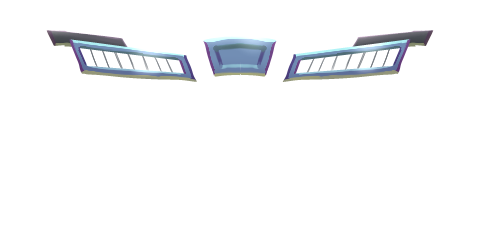
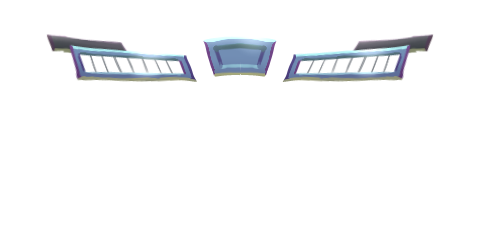
Health bar

Changed region(s): [[0.6, 0.112, 0.87, 0.336], [0.09, 0.112, 0.36, 0.336]]

diff --git a/src/finalGame/champion/Champion.java b/src/finalGame/champion/Champion.java
@@ -156,14 +156,14 @@ public class Champion extends GameObject{
 		
 		//PlayerHP
 		g2.setColor(Color.black);
-		g2.drawRect(110, 70, 180, 25);
+		g2.drawRect(110, 74, 176, 25);
 		g2.setColor(Color.red);
-		g2.fillRect(110, 70, health + 80, 25);
+		g2.fillRect(110, 74, health + 76, 25);
 		//MasiosareHP
 		g2.setColor(Color.black);
-		g2.drawRect(478, 70, 180, 25);
+		g2.drawRect(478, 75, 180, 25);
 		g2.setColor(Color.red);
-		g2.fillRect(478, 70, enemyHealth + 80, 25);
+		g2.fillRect(478, 75, enemyHealth + 80, 25);
 		
 	}
 	
